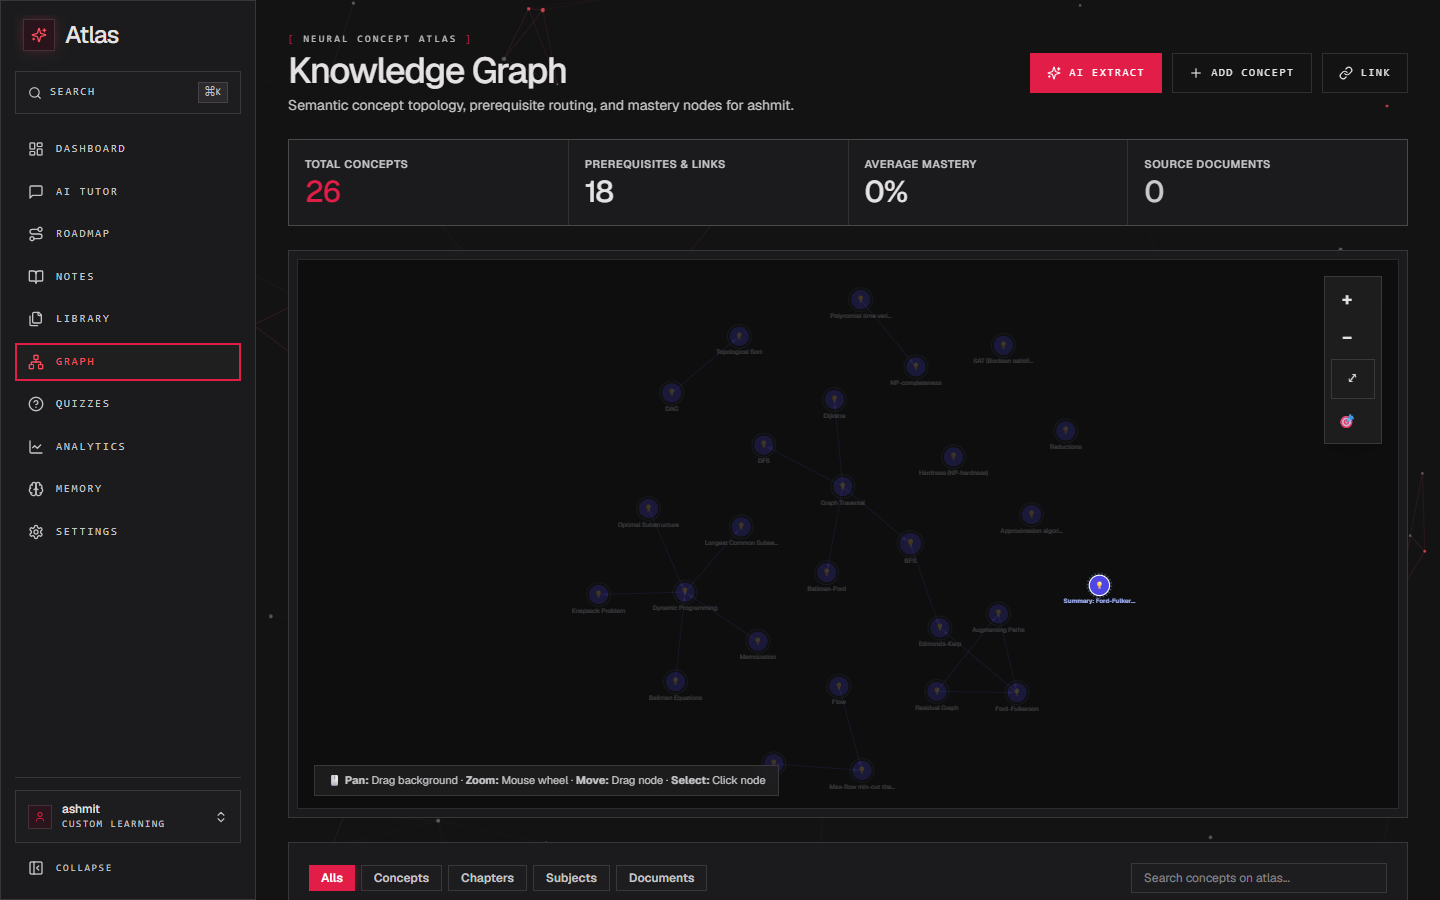
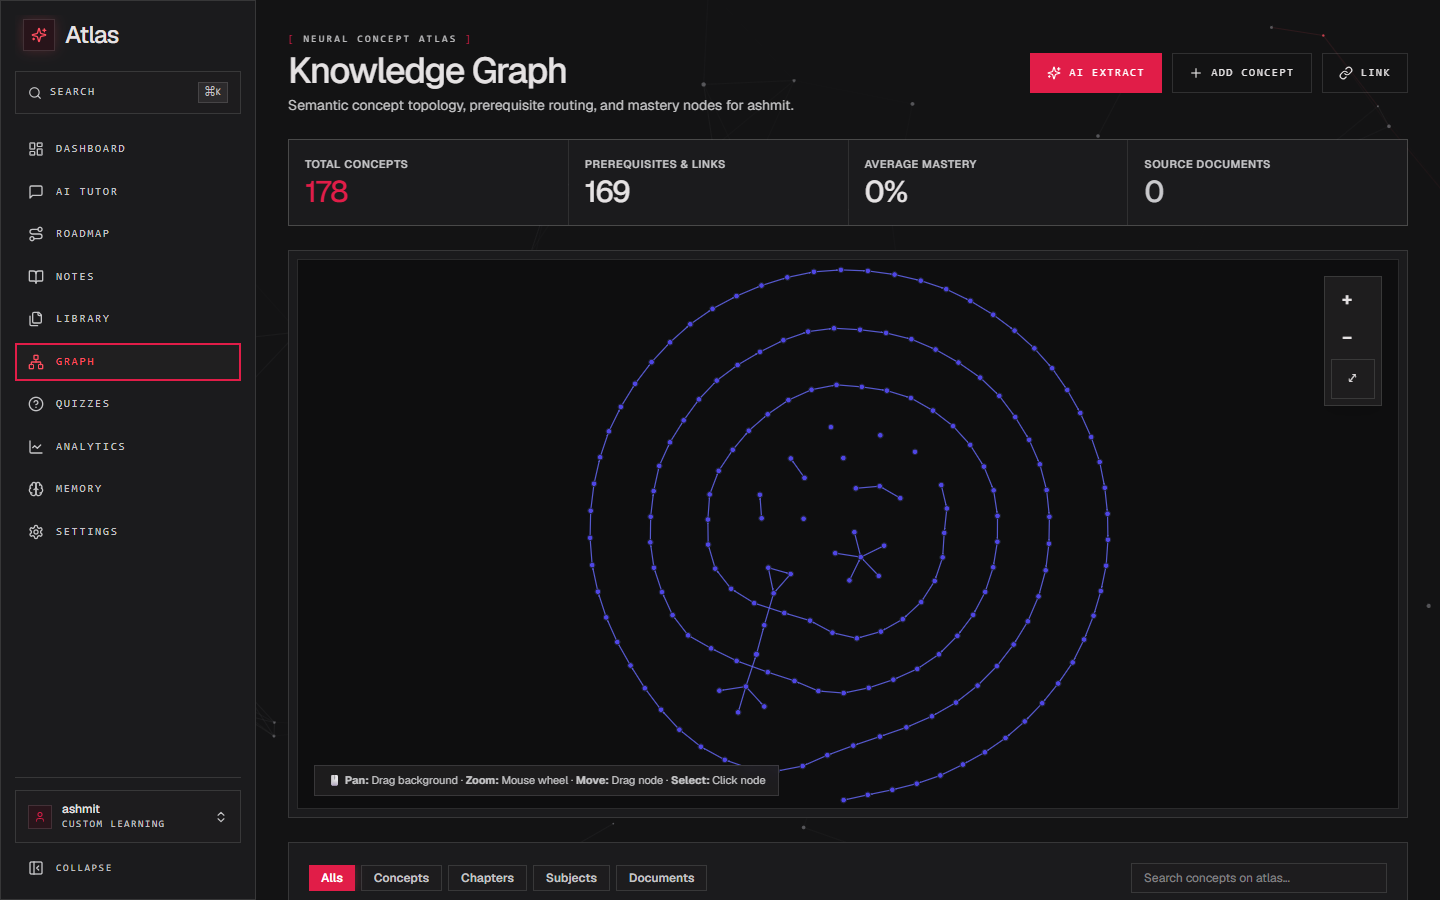
Let Reset View actually frame a large graph, and retake the screenshot
Framing clamped the zoom to a floor of 0.2. A 179-node curriculum needs
0.13 to fit, so "Reset View" -- and the automatic framing that runs when
the layout settles -- showed the middle of the spiral with its outer
turns off screen, and pressing the button again changed nothing. The
floor is only there to stop a degenerate bounding box producing an absurd
zoom; it has no business being tight enough to prevent showing the graph.

The layout was also inflating against its boundary: seeded out to 1600
and spread to 2125 before anything stopped it, which bought nothing and
made the whole thing harder to take in. The containment margin is now
just enough to hold the seeded shape.

Found while retaking the README screenshot, which still showed the graph
as it was before any of this -- a handful of disconnected clusters. It
now shows the curriculum as one coil, which is the point.

diff --git a/frontend/src/hooks/useGraphSimulation.ts b/frontend/src/hooks/useGraphSimulation.ts
@@ -239,8 +239,11 @@ export function useGraphSimulation(
         const kAttract = 0.05;
         const kGravity = 0.004;
         const damping = 0.85;
-        // Room for the seeded arrangement to keep its shape, with margin.
-        const containment = seedExtent(next.length) * 1.3;
+        // Just enough room for the seeded arrangement to keep its shape.
+        // With more slack than this the graph inflates against the boundary
+        // -- 179 nodes seeded to 1600 spread to 2125 before stopping -- which
+        // buys nothing and only makes the whole thing harder to take in.
+        const containment = seedExtent(next.length) * 1.05;
 
         // 1. Repulsion between all node pairs
         for (let i = 0; i < next.length; i++) {

diff --git a/frontend/src/components/graph/KnowledgeGraphCanvas.tsx b/frontend/src/components/graph/KnowledgeGraphCanvas.tsx
@@ -147,8 +147,12 @@ export function KnowledgeGraphCanvas({
     const minY = Math.min(...ys) - pad;
     const maxY = Math.max(...ys) + pad;
 
+    // The floor is only there to stop a degenerate bounding box producing an
+    // absurd zoom. It must not be tight enough to prevent framing a real
+    // graph: a 179-node curriculum needs 0.13 to fit, and a floor of 0.2 left
+    // "Reset View" showing the middle of it with the edges off screen.
     const k = Math.max(
-      0.2,
+      0.05,
       Math.min(1.4, Math.min(rect.width / (maxX - minX), rect.height / (maxY - minY))),
     );
     setTransform({
